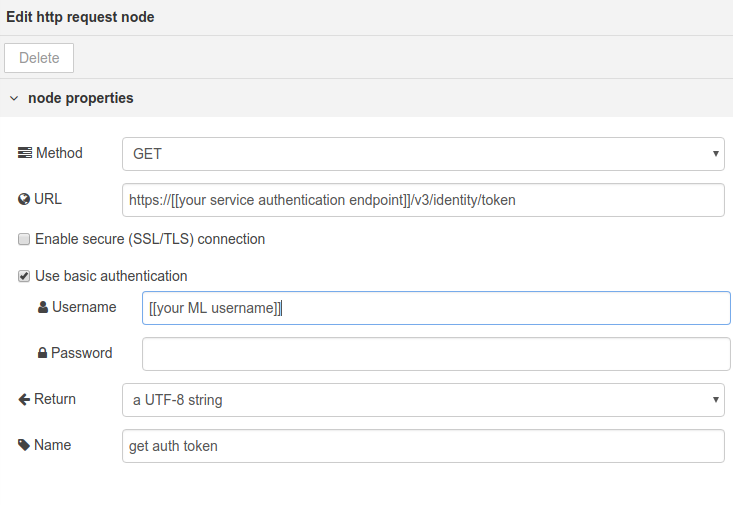
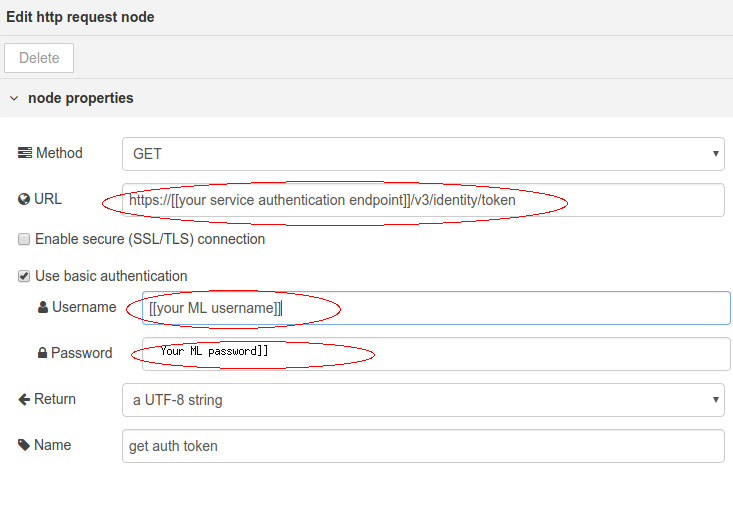
update to highlight need for 3 parms in "get auth token" node

Changed region(s): [[0.2101, 0.6832, 0.3602, 0.7129], [0.7503, 0.3861, 0.7804, 0.4158]]

diff --git a/index.html b/index.html
@@ -1,0 +1,87 @@
+<!DOCTYPE html>
+<!--
+	Licensed Materials - Property of IBM
+	5725-Q07
+	© Copyright IBM Corp. 2015
+	US Government Users Restricted Rights - Use, duplication, or disclosure
+	restricted by GSA ADP Schedule Contract with IBM Corp.
+-->
+<html data-ng-app="iotui" data-ng-controller="AppCtrl">
+	<head>
+		<meta name="dcterms.rightsHolder" content="© Copyright IBM Corporation 2014, 2016"/>
+		<meta charset="utf-8" />
+		<meta http-equiv="X-UA-Compatible" content="IE=edge" />
+		<meta name="viewport" content="width=device-width, initial-scale=1" />
+		<meta name="description" content="" />
+		<meta name="author" content="" />
+		<link rel="shortcut icon" href="../../assets/ico/favicon.ico" />
+
+		<title>IBM Watson IoT Platform</title>
+
+		<!-- compiled CSS -->
+		<link rel="stylesheet" type="text/css" href="node_modules/@wiotp-webui/iotcloud.ui.common/vendor/c3/c3.min.css" />
+		<link rel="stylesheet" type="text/css" href="vendor/rickshaw/rickshaw.css" />
+		<link rel="stylesheet" type="text/css" href="assets/iotui-quickstart-0.0.0.12654ed2590f2336.css" />
+
+		<!-- compiled JavaScript -->
+		<script type="text/javascript" src="assets/iotui-quickstart-0.0.0-vendor.9cce51471ea84ca9.js"></script>
+		<script type="text/javascript" src="assets/iotui-quickstart-0.0.0.7b3bc98f8fd5de3f.js"></script>
+
+	  <script>
+		  window.digitalData = {
+		    page: {
+		      category: {
+		        primaryCategory: "Quickstart (Watson IoT Platform)"
+		      },
+		      pageInfo: {
+		        pageID: 'Quickstart',
+		        productTitle: 'Watson IoT Platform'
+		      }
+		    }
+		  };
+		</script>
+		<script src="//1.www.s81c.com/common/stats/ida_stats.js" type="text/javascript"></script>
+
+		<!-- Height fix for IE10 on Windows Phone -->
+		<style>
+			@-webkit-viewport { width: auto !important; }
+			@-moz-viewport { width: auto !important; }
+			@-ms-viewport { width: auto !important; }
+			@-o-viewport { width: auto !important; }
+			@viewport { width: auto !important; }
+		</style>
+	</head>
+
+	<body data-ng-class="{loading: !loaded}">
+
+		<div data-ng-if="!loaded" data-iotc-loading-animation data-color="#ffffff" style="position: absolute;"></div>
+
+		<div data-ng-if="loaded">
+			<nav class="navbar navbar-static-top iotf-gradient-1 iotf-main-nav" data-role="navigation">
+				<!-- Main Navigation -->
+				<div class="row">
+					<div class="col-xs-12">
+						<div data-iotc-root-navigation data-user="user"></div>
+					</div>
+				</div>
+			</nav>
+
+			<div id="allContent" class="container-fluid">
+				<div class="row" data-ui-view="top"></div>
+				<div class="row" data-ui-view="deviceidform"></div>
+
+				<div class="row" style="padding-top:20px; background:white">
+					<div class="col-sm-4" data-ui-view="left1"></div>
+					<div class="col-sm-8" data-ui-view="right1" style="padding-left:50px; padding-right:60px; border-left:1px solid #e2e2e2"></div>
+				</div>
+
+				<div class="row" style="padding-bottom:20px; background:white">
+					<div class="col-sm-8" data-ui-view="left2"></div>
+					<div class="col-sm-4" data-ui-view="right2" style="padding-left:50px; padding-right:60px; border-left:1px solid #e2e2e2"></div>
+				</div>
+			</div>
+
+			<div data-iotc-footer></div>
+		</div>
+	</body>
+</html>
